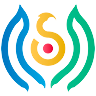
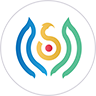
Pool filter

diff --git a/src/views/Pools/components/PoolTabButtons/index.tsx b/src/views/Pools/components/PoolTabButtons/index.tsx
@@ -1,27 +1,78 @@
-import React from 'react'
-import styled from 'styled-components'
-import { useRouteMatch, Link } from 'react-router-dom'
-import { ButtonMenu, ButtonMenuItem, Toggle, Text } from 'uikit-dev'
 import useI18n from 'hooks/useI18n'
+import React from 'react'
+import { useRouteMatch } from 'react-router-dom'
+import styled from 'styled-components'
+import { Button, Heading, Text, Toggle } from 'uikit-dev'
 
-const PoolTabButtons = ({ stackedOnly, setStackedOnly }) => {
+const PoolTabButtons = ({ poolsCount, stackedOnly, setStackedOnly, liveOnly, setLiveOnly }) => {
   const { url, isExact } = useRouteMatch()
   const TranslateString = useI18n()
 
+  const StyledButton = styled(Button)`
+    border-radius: ${({ theme }) => theme.radii.default};
+    color: ${({ theme }) => theme.colors.textSubtle};
+    border: 1px solid ${({ theme }) => theme.colors.border};
+    font-weight: 400;
+    min-width: 120px;
+    box-shadow: none !important;
+
+    &.active {
+      font-weight: bold;
+      color: ${({ theme }) => theme.colors.primary};
+      border-color: ${({ theme }) => theme.colors.primary};
+      background-color: ${({ theme }) => theme.colors.white};
+    }
+  `
+
   return (
     <Wrapper>
-      <ToggleWrapper>
+      <Heading as="h2" fontSize="20px !important" className="my-6" textAlign="center">
+        All pools
+        <span className="ml-2" style={{ fontSize: '16px' }}>
+          ({poolsCount})
+        </span>
+      </Heading>
+      {/* <ToggleWrapper>
         <Toggle checked={stackedOnly} onChange={() => setStackedOnly(!stackedOnly)} />
         <Text> {TranslateString(999, 'Staked only')}</Text>
-      </ToggleWrapper>
-      <ButtonMenu activeIndex={isExact ? 0 : 1} size="sm" variant="subtle">
+      </ToggleWrapper> */}
+
+      {/* <ButtonMenu activeIndex={isExact ? 0 : 1} size="sm" variant="subtle">
         <ButtonMenuItem as={Link} to={`${url}`}>
           {TranslateString(698, 'Live')}
         </ButtonMenuItem>
         <ButtonMenuItem as={Link} to={`${url}/history`}>
           {TranslateString(700, 'Finished')}
         </ButtonMenuItem>
-      </ButtonMenu>
+      </ButtonMenu> */}
+
+      <div className="flex">
+        <ToggleWrapper>
+          <Toggle checked={liveOnly} onChange={() => setLiveOnly(!liveOnly)} />
+          <Text> {TranslateString(999, 'Live')}</Text>
+        </ToggleWrapper>
+
+        <StyledButton
+          size="sm"
+          onClick={() => {
+            setStackedOnly(false)
+          }}
+          variant="secondary"
+          className={`mr-2 ${!stackedOnly ? 'active' : ''}`}
+        >
+          All
+        </StyledButton>
+        <StyledButton
+          size="sm"
+          onClick={() => {
+            setStackedOnly(true)
+          }}
+          variant="secondary"
+          className={stackedOnly ? 'active' : ''}
+        >
+          Staked
+        </StyledButton>
+      </div>
     </Wrapper>
   )
 }
@@ -30,9 +81,10 @@ export default PoolTabButtons
 
 const Wrapper = styled.div`
   display: flex;
-  justify-content: center;
+  justify-content: space-between;
   align-items: center;
-  margin-bottom: 32px;
+  margin-bottom: 1rem;
+  flex-wrap: wrap;
 `
 
 const ToggleWrapper = styled.div`

diff --git a/src/views/Pools/Syrup.tsx b/src/views/Pools/Syrup.tsx
@@ -14,8 +14,8 @@ import styled from 'styled-components'
 import { getBalanceNumber } from 'utils/formatBalance'
 import PoolCardGenesis from './components/PoolCardGenesis'
 
-// import PoolCard from './components/PoolCard'
 // import { Heading } from 'uikit-dev'
+// import PoolCard from './components/PoolCard'
 // import PoolTabButtons from './components/PoolTabButtons'
 
 const Farm: React.FC = () => {
@@ -28,6 +28,7 @@ const Farm: React.FC = () => {
   const ethPriceBnb = usePriceEthBnb()
   const block = useBlock()
   const [stackedOnly, setStackedOnly] = useState(false)
+  const [liveOnly, setLiveOnly] = useState(true)
 
   const priceToBnb = (tokenName: string, tokenPrice: BigNumber, quoteToken: QuoteToken): BigNumber => {
     const tokenPriceBN = new BigNumber(tokenPrice)
@@ -75,15 +76,34 @@ const Farm: React.FC = () => {
     (pool) => pool.userData && new BigNumber(pool.userData.stakedBalance).isGreaterThan(0),
   )
 
+  const filterStackedOnlyPools = (poolsForFilter) =>
+    poolsForFilter.filter((pool) => pool.userData && new BigNumber(pool.userData.stakedBalance).isGreaterThan(0))
+
   return (
     <Page>
-      {/* <Heading as="h1" fontSize="32px !important" className="my-6" textAlign="center">
+      {/* <Heading as="h1" fontSize="32px !important" className="mt-6 mb-4" textAlign="center">
         Pool
       </Heading>
 
-      <PoolTabButtons stackedOnly={stackedOnly} setStackedOnly={setStackedOnly} /> */}
+      <PoolTabButtons
+        poolsCount={pools.length}
+        stackedOnly={stackedOnly}
+        setStackedOnly={setStackedOnly}
+        liveOnly={liveOnly}
+        setLiveOnly={setLiveOnly}
+      /> */}
 
       <div>
+        {/* <Route exact path={`${path}`}>
+          {liveOnly
+            ? orderBy(stackedOnly ? filterStackedOnlyPools(openPools) : openPools, ['sortOrder']).map((pool) => (
+                <PoolCard key={pool.sousId} pool={pool} />
+              ))
+            : orderBy(stackedOnly ? filterStackedOnlyPools(finishedPools) : finishedPools, [
+                'sortOrder',
+              ]).map((pool) => <PoolCard key={pool.sousId} pool={pool} />)}
+        </Route> */}
+
         <Route exact path={`${path}`}>
           <>
             {stackedOnly
@@ -94,11 +114,12 @@ const Farm: React.FC = () => {
             {/* <Coming /> */}
           </>
         </Route>
-        <Route path={`${path}/history`}>
+
+        {/* <Route path={`${path}/history`}>
           {orderBy(finishedPools, ['sortOrder']).map((pool) => (
-            <PoolCardGenesis key={pool.sousId} pool={pool} />
+            <PoolCard key={pool.sousId} pool={pool} />
           ))}
-        </Route>
+        </Route> */}
       </div>
     </Page>
   )

diff --git a/src/views/Farms/components/FarmCard/FarmCard.tsx b/src/views/Farms/components/FarmCard/FarmCard.tsx
@@ -10,7 +10,7 @@ import styled from 'styled-components'
 import { Flex, Skeleton, Text } from 'uikit-dev'
 import getLiquidityUrlPathParts from 'utils/getLiquidityUrlPathParts'
 import { provider } from 'web3-core'
-import miniLogo from '../../../../uikit-dev/images/64x64.png'
+import miniLogo from '../../../../uikit-dev/images/finix-coin.png'
 import colorStroke from '../../../../uikit-dev/images/Color-stroke.png'
 import CardActionsContainer from './CardActionsContainer'
 import CardHeading from './CardHeading'

diff --git a/src/views/Pools/components/PoolCardGenesis.tsx b/src/views/Pools/components/PoolCardGenesis.tsx
@@ -138,7 +138,7 @@ const PoolCardGenesis: React.FC<HarvestProps> = ({ pool }) => {
     <Card isActive={isCardActive} isFinished={isFinished && sousId !== 0} className="flex flex-column align-stretch">
       {isFinished && sousId !== 0 && <PoolFinishedSash />}
 
-      <IconButton variant="text" as="a" href="/" area-label="go back" className="ma-3">
+      <IconButton variant="text" as="a" href="/dashboard" area-label="go back" className="ma-3">
         <ArrowBackIcon />
       </IconButton>
 
